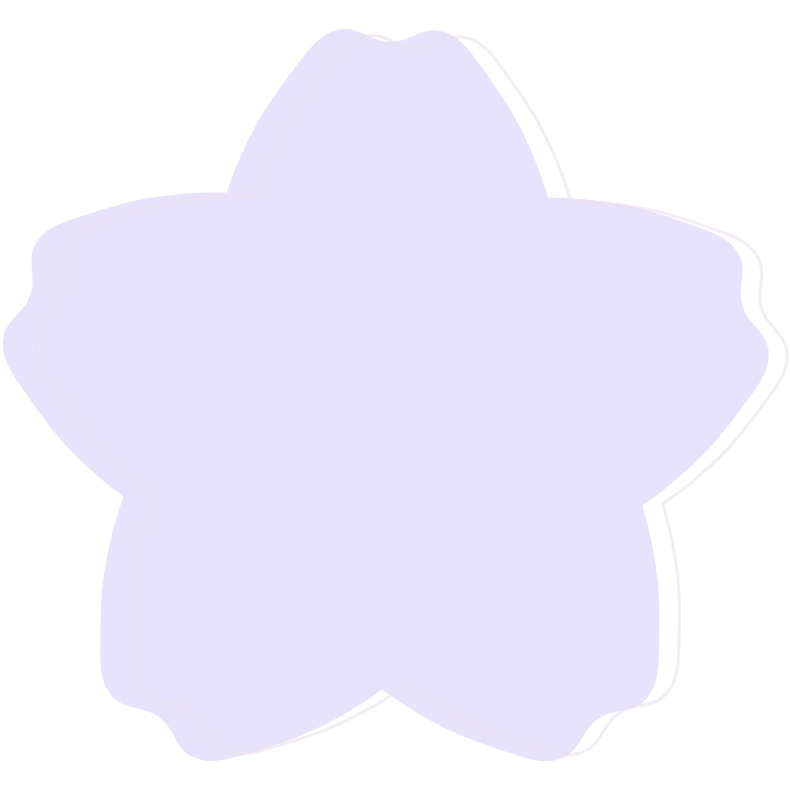
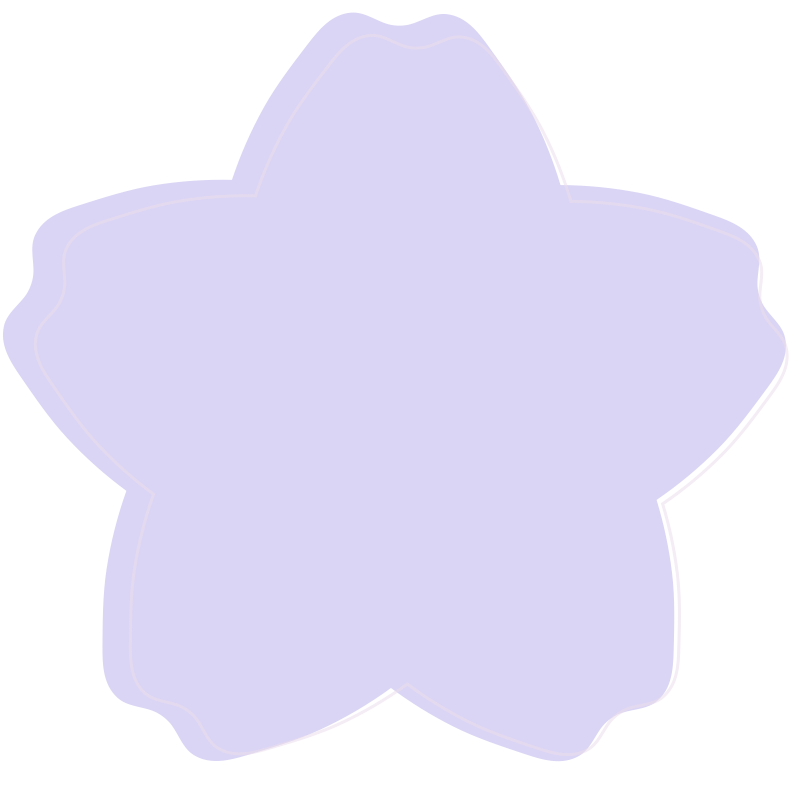
feat(Home): downsize rotating sakura images and left offset

diff --git a/src/views/Home.vue b/src/views/Home.vue
@@ -133,9 +133,9 @@ $slider-background-rounded-width: 700px;
 $slider-background-rounded-height: 90px;
 $slider-background-rounded-opacity: 0.4;
 
-$rotate-large-left-offset: -155px;
+$rotate-large-left-offset: -230px;
 $rotate-large-top-offset: -280px;
-$rotate-small-left-offset: -40px;
+$rotate-small-left-offset: -120px;
 $rotate-small-top-offset: 290px;
 
 #street {
